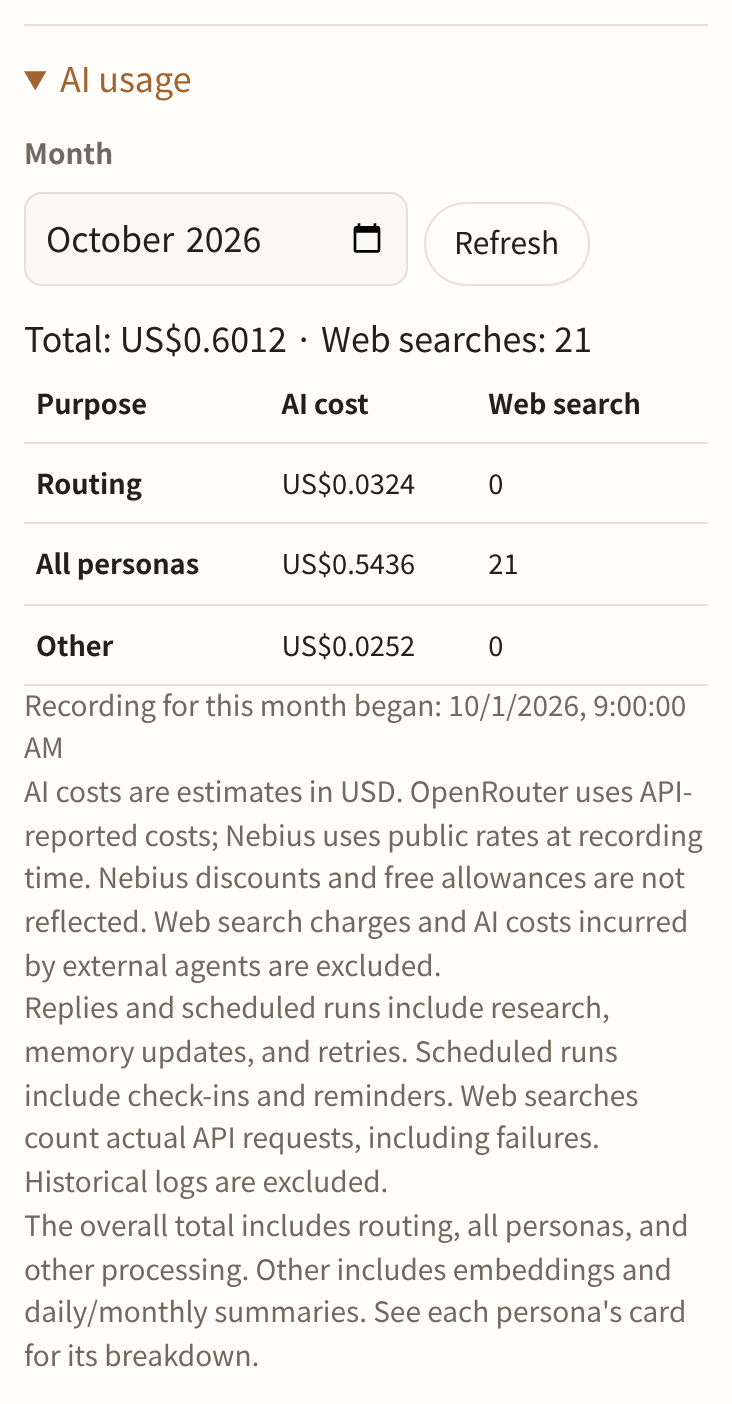
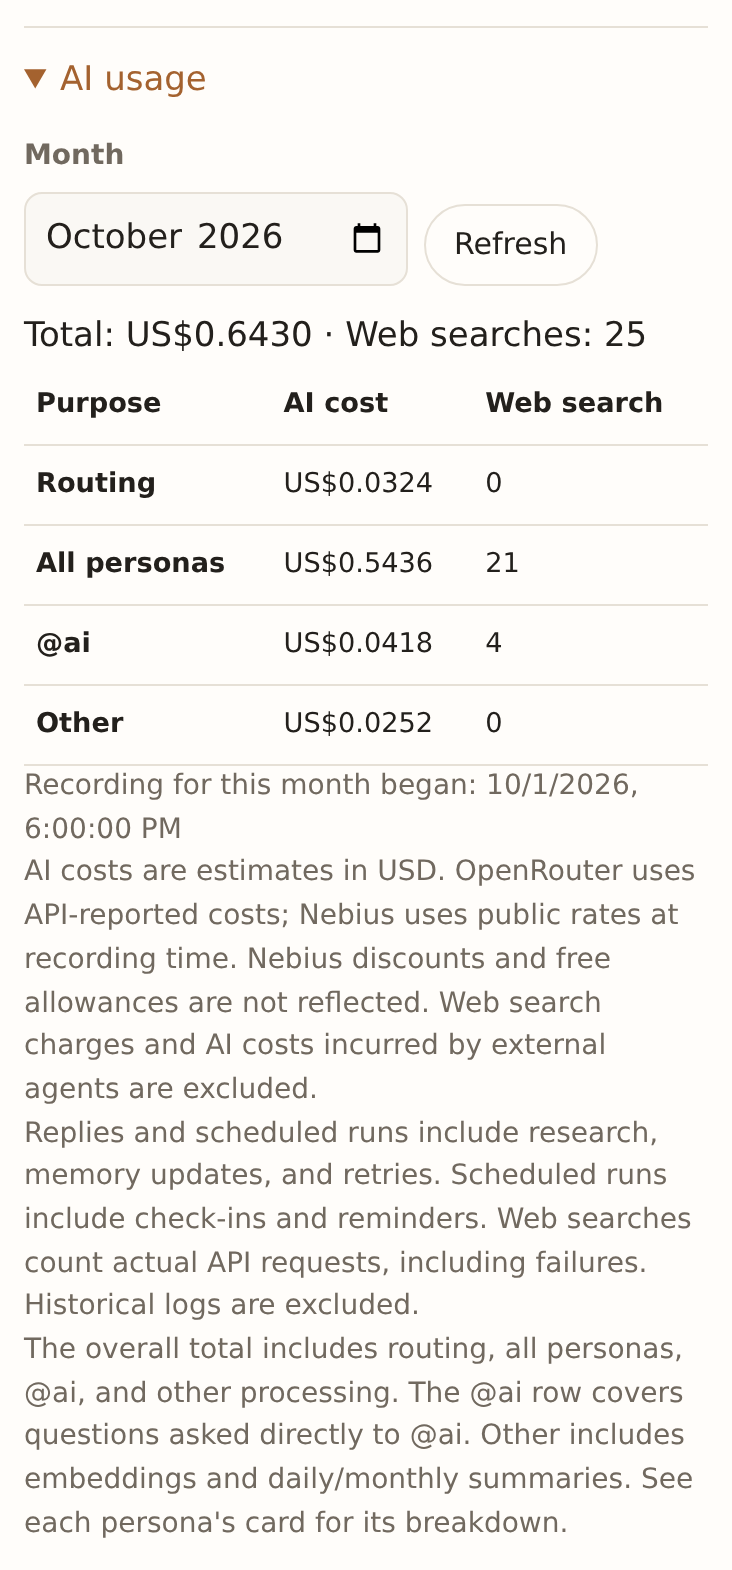
Show questions to @ai on their own usage row
Direct @ai questions are recorded under the persona ID "agent", which has
no persona card, so their cost was folded into All personas with no way to
see it. The overall AI usage table now shows them on an @ai row; personas
answering on the built-in model stay under All personas.

- Retake the settings-usage captures and update the manual's alt text and
  sizes, the usage guides and docs/system/frontend.md.
- Drop the retired まとめ section from the story memo fixtures.

diff --git a/frontend/manual/index.html b/frontend/manual/index.html
@@ -634,8 +634,8 @@ mise exec -- go run ./tools/google-bridge/cmd/google-bridge</code></pre>
             </table>
           </div>
           <h3 id="ja-usage">月ごとのAI利用状況</h3>
-          <p><strong>設定 → AI利用状況</strong> を開くと、月の合計金額とWeb検索回数が見られます。<strong>集計月</strong> で月を選び、最新の記録を見るときは <strong>更新</strong> を押します。内訳は <strong>振り分け・担当合計・その他</strong> です。「その他」には意味検索のEmbeddingや日まとめ・月まとめなどの共通処理を含みます。</p>
-          <figure><img src="/captures/ja/settings-usage.png" alt="設定のAI利用状況。合計と振り分け・担当合計・その他の金額（サンプル）" loading="lazy" width="366" height="637" /><figcaption>全体の利用状況。金額と回数はサンプルです。</figcaption></figure>
+          <p><strong>設定 → AI利用状況</strong> を開くと、月の合計金額とWeb検索回数が見られます。<strong>集計月</strong> で月を選び、最新の記録を見るときは <strong>更新</strong> を押します。内訳は <strong>振り分け・担当合計・@ai・その他</strong> です。「@ai」の行は、<code>@ai</code> に直接した質問の分です。担当が内蔵モデルで答えた分は「担当合計」に入ります。「その他」には意味検索のEmbeddingや日まとめ・月まとめなどの共通処理を含みます。</p>
+          <figure><img src="/captures/ja/settings-usage.png" alt="設定のAI利用状況。合計と振り分け・担当合計・@ai・その他の金額（サンプル）" loading="lazy" width="366" height="698" /><figcaption>全体の利用状況。金額と回数はサンプルです。</figcaption></figure>
           <p>担当別に見るには、<strong>担当</strong> を開き、各カードの <strong>AI利用状況</strong> を開きます。<strong>返答・定期実行・その他</strong> に分かれ、返答や定期実行に伴う調査・記憶更新・再試行も含みます。定期実行はチェックインとリマインダーです。振り分けなどの共通費用は担当別の金額には含めません。</p>
           <figure><img src="/captures/ja/persona-usage.png" alt="担当のAI利用状況。返答・定期実行・その他の金額とWeb検索回数（サンプル）" loading="lazy" width="382" height="813" /><figcaption>担当ごとの内訳。金額と回数はサンプルです。</figcaption></figure>
           <p>金額は米ドルの概算です。OpenRouterはAPIが返した料金、Nebiusは記録時の公開単価を使い、Nebiusの割引・無料枠は反映しません。料金が分からない呼び出しは <strong>未算出</strong> と表示します。Web検索は失敗を含む実際のAPIリクエスト数で、検索料金や外部エージェント側のAI料金は含みません。記録開始後の利用だけが対象で、過去のログは取り込みません。記録がない月には、その旨を表示します。</p>
@@ -1303,8 +1303,8 @@ mise exec -- go run ./tools/google-bridge/cmd/google-bridge</code></pre>
             </table>
           </div>
           <h3 id="en-usage">Monthly AI usage</h3>
-          <p>Open <strong>Settings → AI usage</strong> to see the month's total cost and Web search count. Choose a month and press <strong>Refresh</strong> for the latest records. The breakdown shows <strong>Routing, All personas, and Other</strong>. Other includes shared work such as meaning-search embeddings and daily/monthly summaries.</p>
-          <figure><img src="/captures/en/settings-usage.png" alt="Settings AI usage with total, routing, all personas, and other costs (sample)" loading="lazy" width="366" height="702" /><figcaption>Overall usage. Amounts and counts are sample data.</figcaption></figure>
+          <p>Open <strong>Settings → AI usage</strong> to see the month's total cost and Web search count. Choose a month and press <strong>Refresh</strong> for the latest records. The breakdown shows <strong>Routing, All personas, @ai, and Other</strong>. The @ai row covers questions asked directly to <code>@ai</code>; personas that answer on the built-in model are counted under All personas. Other includes shared work such as meaning-search embeddings and daily/monthly summaries.</p>
+          <figure><img src="/captures/en/settings-usage.png" alt="Settings AI usage with total, routing, all personas, @ai, and other costs (sample)" loading="lazy" width="366" height="785" /><figcaption>Overall usage. Amounts and counts are sample data.</figcaption></figure>
           <p>For an individual breakdown, open <strong>Personas → AI usage</strong> on a persona's card. It separates <strong>Replies, Scheduled runs, and Other</strong>, including related research, memory updates, and retries. Scheduled runs cover check-ins and reminders. Shared costs such as routing are not allocated to personas.</p>
           <figure><img src="/captures/en/persona-usage.png" alt="Persona AI usage with reply, scheduled, and other costs and Web search counts (sample)" loading="lazy" width="382" height="932" /><figcaption>One persona's breakdown. Amounts and counts are sample data.</figcaption></figure>
           <p>Costs are estimates in USD. OpenRouter uses API-reported costs; Nebius uses public rates at recording time, excluding discounts and free allowances. Calls without known pricing appear as <strong>Unpriced</strong>. Web searches count actual API requests, including failures; search charges and the external agent's own AI costs are excluded. Only usage since recording began is included, without importing historical logs. Months without records display an empty-state message.</p>

diff --git a/frontend/src/usage.js b/frontend/src/usage.js
@@ -28,7 +28,7 @@ export function createUsage({ persona = "" } = {}) {
   body.append(el("div", { class: "usage-controls" }, el("label", { class: "field" }, el("span", { label: "集計月" }), month), refresh), results,
     el("p", { class: "hint", label: "AI料金は米ドルの概算です。OpenRouterはAPIが返した料金、Nebiusは記録時の公開単価で集計します。Nebiusの割引・無料枠は反映しません。Web検索料金・外部エージェント側のAI料金は含みません。" }),
     el("p", { class: "hint", label: "返答・定期実行には調査、記憶更新、再試行も含みます。定期実行はチェックインとリマインダーです。Web検索は実際のAPIリクエスト数（失敗を含む）です。過去のログは集計対象に含みません。" }));
-  if (!persona) body.append(el("p", { class: "hint", label: "全体の合計は振り分け・各担当の利用分・その他の処理を含みます。その他にはEmbeddingや日まとめ・月まとめなどを含みます。担当ごとの内訳は担当画面をご覧ください。" }));
+  if (!persona) body.append(el("p", { class: "hint", label: "全体の合計は振り分け・各担当の利用分・@ai・その他の処理を含みます。@aiの行は、@aiに直接した質問の分です。その他にはEmbeddingや日まとめ・月まとめなどを含みます。担当ごとの内訳は担当画面をご覧ください。" }));
   let request = 0;
   let loaded = false;
   async function load() {
@@ -47,9 +47,15 @@ export function createUsage({ persona = "" } = {}) {
       const total = usageTotals(usage.rows);
       results.append(el("p", { text: t("合計：{0} · Web検索 {1}回", costText(total), total.searches) }));
       const labels = { reply: "返答", scheduled: "定期実行", other: "その他" };
+      // Questions to @ai are recorded under the persona id "agent"; they have
+      // no persona card, so the overall table shows them on their own row.
+      const direct = (row) => row.component === "persona" && row.persona === "agent";
       const displayRows = persona ? usage.rows : [
-        ["routing", "振り分け"], ["persona", "担当合計"], ["other", "その他"],
-      ].map(([component, label]) => ({ ...usageTotals(usage.rows.filter(row => (row.component === component || (component === "other" && row.component === "embedding")))), label }));
+        ["振り分け", row => row.component === "routing"],
+        ["担当合計", row => row.component === "persona" && !direct(row)],
+        ["@ai", direct],
+        ["その他", row => row.component === "other" || row.component === "embedding"],
+      ].map(([label, matches]) => ({ ...usageTotals(usage.rows.filter(matches)), label }));
       const table = el("table", { class: "usage-table" },
         el("thead", {}, el("tr", {}, ...["用途", "AI料金", "Web検索"].map(label => el("th", { scope: "col", label })))),
         el("tbody", {}, ...displayRows.map(row => el("tr", {},

diff --git a/frontend/stories/fixtures.js b/frontend/stories/fixtures.js
@@ -329,12 +329,12 @@ export const dictatingSettings = {
 export const memory = {
   gourmet: {
     notes: [
-      { path: "Memo.md", text: "# Memo\n\n## まとめ（2026-09-14 更新）\n\n辛さは平気だが、ごまが前に出る担々麺は苦手。神保町の担々麺はごま強めだった。\n\n## いまの事実\n\n- [f_k2m9qa] 辛いのは平気 from:s2 since:2026-09-13\n- [f_p4r8tz] 担々麺のごまが強すぎると苦手 from:p1 since:2026-09-01\n- [f_w7x1bc] 神保町の担々麺（店名不明）はごま強めだった from:p1 since:2026-09-01\n\n## かけらの記録\n\n- 2026-09-12 18:40 [s3](/?entry=s3) 東京駅の近くで20時前に食べられる店を聞いた #東京駅 #夕食 expires:2026-09-13/1d\n" },
+      { path: "Memo.md", text: "# Memo\n\n## いまの事実\n\n- [f_k2m9qa] 辛いのは平気 from:s2 since:2026-09-13\n- [f_p4r8tz] 担々麺のごまが強すぎると苦手 from:p1 since:2026-09-01\n- [f_w7x1bc] 神保町の担々麺（店名不明）はごま強めだった from:p1 since:2026-09-01\n\n## かけらの記録\n\n- 2026-09-12 18:40 [s3](/?entry=s3) 東京駅の近くで20時前に食べられる店を聞いた #東京駅 #夕食 expires:2026-09-13/1d\n" },
     ],
   },
   book: {
     notes: [
-      { path: "Memo.md", text: "# Memo\n\n## まとめ（2026-09-21 更新）\n\n『動きが心をつくる』の、身体が先で感情はあとという一節に引かれている。\n\n## いまの事実\n\n- [f_b3n6yd] 『動きが心をつくる』の「身体の状態が先にあって、感情はあとから名前を付けられる」に線を引いた。同じ章に二度反応している from:s4 since:2026-09-20\n\n## かけらの記録\n\n- 2026-09-20 22:10 [s4](/?entry=s4) 『動きが心をつくる』の身体が先という一節に線を引いた #身体論 #動きが心をつくる review:2026-12-20/91d\n" },
+      { path: "Memo.md", text: "# Memo\n\n## いまの事実\n\n- [f_b3n6yd] 『動きが心をつくる』の「身体の状態が先にあって、感情はあとから名前を付けられる」に線を引いた。同じ章に二度反応している from:s4 since:2026-09-20\n\n## かけらの記録\n\n- 2026-09-20 22:10 [s4](/?entry=s4) 『動きが心をつくる』の身体が先という一節に線を引いた #身体論 #動きが心をつくる review:2026-12-20/91d\n" },
     ],
   },
 };

diff --git a/frontend/src/i18n.js b/frontend/src/i18n.js
@@ -184,7 +184,7 @@ const EN = {
   "この月の利用記録はありません": "No usage recorded for this month",
   "失敗したリクエスト：AI {0}件、Web検索 {1}件": "Failed requests: AI {0}, Web search {1}",
   "この月の記録開始：{0}": "Recording for this month began: {0}",
-  "全体の合計は振り分け・各担当の利用分・その他の処理を含みます。その他にはEmbeddingや日まとめ・月まとめなどを含みます。担当ごとの内訳は担当画面をご覧ください。": "The overall total includes routing, all personas, and other processing. Other includes embeddings and daily/monthly summaries. See each persona's card for its breakdown.",
+  "全体の合計は振り分け・各担当の利用分・@ai・その他の処理を含みます。@aiの行は、@aiに直接した質問の分です。その他にはEmbeddingや日まとめ・月まとめなどを含みます。担当ごとの内訳は担当画面をご覧ください。": "The overall total includes routing, all personas, @ai, and other processing. The @ai row covers questions asked directly to @ai. Other includes embeddings and daily/monthly summaries. See each persona's card for its breakdown.",
   "AI料金は米ドルの概算です。OpenRouterはAPIが返した料金、Nebiusは記録時の公開単価で集計します。Nebiusの割引・無料枠は反映しません。Web検索料金・外部エージェント側のAI料金は含みません。": "AI costs are estimates in USD. OpenRouter uses API-reported costs; Nebius uses public rates at recording time. Nebius discounts and free allowances are not reflected. Web search charges and AI costs incurred by external agents are excluded.",
   "返答・定期実行には調査、記憶更新、再試行も含みます。定期実行はチェックインとリマインダーです。Web検索は実際のAPIリクエスト数（失敗を含む）です。過去のログは集計対象に含みません。": "Replies and scheduled runs include research, memory updates, and retries. Scheduled runs include check-ins and reminders. Web searches count actual API requests, including failures. Historical logs are excluded.",
   "プロフィール": "Profile", "表示名": "Display name", "写真を選ぶ": "Choose photo", "写真を外す": "Remove photo",

diff --git a/tests/usage.test.js b/tests/usage.test.js
@@ -35,6 +35,8 @@ test("persona cards request only that persona and overall Other includes embeddi
       return { usage: { month: "2026-10", rows: persona ? [{ category: "scheduled", component: "persona", calls: 1, reportedUsd: 0.02, searches: 2 }] : [
         { component: "embedding", calls: 1, estimatedUsd: 0.01 },
         { component: "other", calls: 1, estimatedUsd: 0.03 },
+        { component: "persona", persona: "gourmet", category: "reply", calls: 1, estimatedUsd: 0.05 },
+        { component: "persona", persona: "agent", category: "reply", calls: 1, estimatedUsd: 0.07 },
       ] } };
     };
     const persona = createUsage({ persona: "gourmet" });
@@ -50,5 +52,9 @@ test("persona cards request only that persona and overall Other includes embeddi
     assert.ok(text(table).includes("US$0.0400"));
     assert.ok(!text(table).includes("Embedding"), "embedding is grouped into Other");
     assert.ok(text(overall.element).includes(t("担当合計")));
+    // Questions to @ai have no persona card; they get their own row, apart from the personas.
+    const cells = (label) => walk(table).find(node => node.children[0]?.textContent === t(label));
+    assert.ok(text(cells("担当合計")).includes("US$0.0500"));
+    assert.ok(text(cells("@ai")).includes("US$0.0700"));
   } finally { Object.assign(globalThis, { Node: saved.Node, document: saved.document }); api.usage = saved.usage; }
 });

diff --git a/frontend/stories/Settings.stories.js b/frontend/stories/Settings.stories.js
@@ -23,6 +23,7 @@ export const WithUsage = {
       { component: "persona", persona: "book", category: "reply", calls: 42, estimatedUsd: 0.3248, reportedUsd: 0.12, searches: 18 },
       { component: "persona", persona: "book", category: "scheduled", calls: 16, estimatedUsd: 0.0862, searches: 3 },
       { component: "persona", persona: "book", category: "other", calls: 4, estimatedUsd: 0.0126, searches: 0 },
+      { component: "persona", persona: "agent", category: "reply", calls: 6, estimatedUsd: 0.0418, searches: 4 },
       { component: "other", category: "other", calls: 8, estimatedUsd: 0.024, searches: 0 },
       { component: "embedding", category: "other", calls: 60, estimatedUsd: 0.0012, searches: 0 },
     ],

diff --git a/docs/system/frontend.md b/docs/system/frontend.md
@@ -92,11 +92,11 @@ The month selector and Refresh button share a two-column grid with an 8px gap. T
 
 Each persona card has a collapsed **AI usage** section, built by [usage.js](../../frontend/src/usage.js). Opening it fetches only that persona's monthly rows; a month selector and Refresh button allow another period or an updated snapshot. Its table separates Replies, Scheduled runs (check-ins/reminders and their memory processing), and Other, displaying known AI costs in USD and actual Web search requests. Missing pricing is shown as Unpriced, including alongside a partial known amount. Failure counts and the month's recording start time appear below the table. Closed cards do not fetch accounting data.
 
-Settings has the overall monthly total, grouped into Routing, All personas, and Other. Other includes embeddings and shared daily/monthly summaries, alongside other shared model work. The explanation points to the persona screen for individual breakdowns and clarifies that shared costs are not allocated to personas. Amounts are estimates, using API-reported OpenRouter costs or recorded Nebius public rates; exclusions and the recording-only time range are stated in Japanese and English. Errors remain visible with Refresh available; superseded requests cannot overwrite a newer month selection.
+Settings has the overall monthly total, grouped into Routing, All personas, @ai, and Other. The @ai row covers the questions asked directly to `@ai`: the built-in answer lane records them under persona ID `agent`, which has no persona card, so they are kept out of All personas and shown on their own row (verified in [usage.test.js](../../tests/usage.test.js)). Other includes embeddings and shared daily/monthly summaries, alongside other shared model work. The explanation points to the persona screen for individual breakdowns and clarifies that shared costs are not allocated to personas. Amounts are estimates, using API-reported OpenRouter costs or recorded Nebius public rates; exclusions and the recording-only time range are stated in Japanese and English. Errors remain visible with Refresh available; superseded requests cannot overwrite a newer month selection.
 
 The **API利用・金額あり（サンプル）** story in [Personas.stories.js](../../frontend/stories/Personas.stories.js) opens a persona's usage section with synthetic October 2026 costs totaling US$0.5436 and 21 Web searches. The story API filters these sample rows by month and persona; other months are empty. [captures.mjs](../../frontend/captures.mjs) captures this state as `persona-usage` in Japanese and English. These are preview fixtures, not production billing records.
 
-The same-named story in [Settings.stories.js](../../frontend/stories/Settings.stories.js) opens and scrolls to the overall usage section. Its synthetic October 2026 total is US$0.6012 with 21 Web searches: US$0.0324 for Routing, US$0.5436 for All personas, and US$0.0252 for Other (including embeddings). The `settings-usage` capture shows this section in Japanese and English.
+The same-named story in [Settings.stories.js](../../frontend/stories/Settings.stories.js) opens and scrolls to the overall usage section. Its synthetic October 2026 total is US$0.6430 with 25 Web searches: US$0.0324 for Routing, US$0.5436 for All personas, US$0.0418 for @ai, and US$0.0252 for Other (including embeddings). The `settings-usage` capture shows this section in Japanese and English.
 
 Verification: [usage.test.js](../../tests/usage.test.js) checks unknown/free/partial costs, lazy persona requests, and embedding grouping; [personas-panel.test.js](../../tests/personas-panel.test.js) and [settings.test.js](../../tests/settings.test.js) cover the surrounding panels. See [backend accounting](./backend.md#monthly-usage-accounting) for persistence and attribution.
 

diff --git a/docs/guides/usage.md b/docs/guides/usage.md
@@ -431,7 +431,7 @@ Dictation uses browser speech recognition. “Polish text with AI before auto-se
 
 ## Monthly AI usage
 
-Open **Settings → AI usage** for the total monthly cost and Web search count. Choose a month and press **Refresh** for current records. The breakdown is **Routing, All personas, and Other**. Other includes embeddings and shared daily/monthly summaries.
+Open **Settings → AI usage** for the total monthly cost and Web search count. Choose a month and press **Refresh** for current records. The breakdown is **Routing, All personas, @ai, and Other**. The @ai row covers questions asked directly to `@ai`; personas that answer on the built-in model are counted under All personas. Other includes embeddings and shared daily/monthly summaries.
 
 ![Settings AI usage (sample amounts)](../captures/en/settings-usage.png)
 
